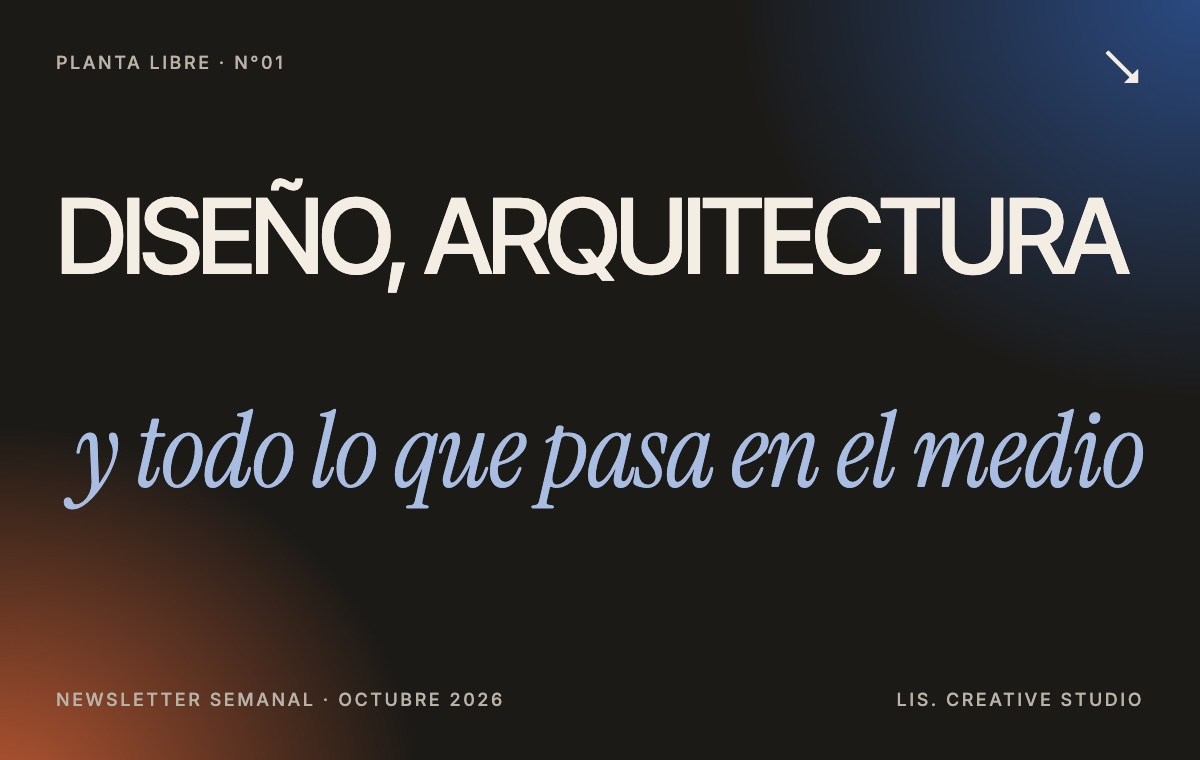
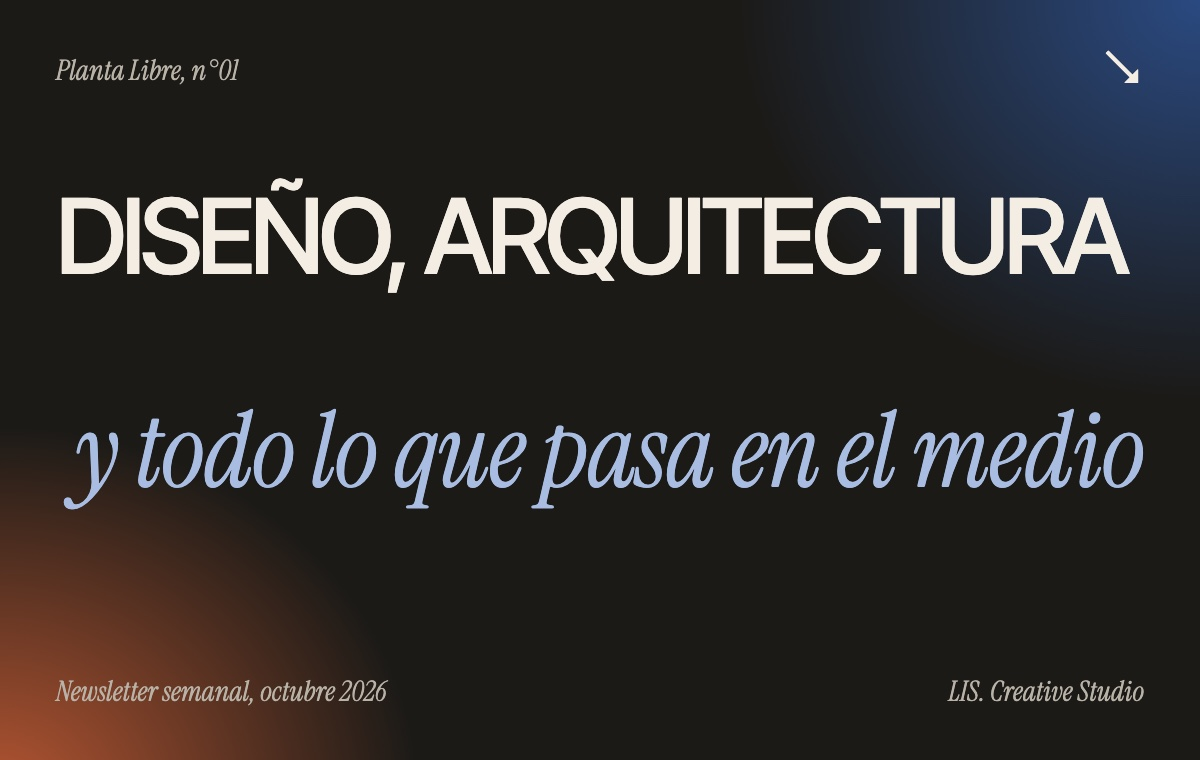
etiquetas como nota en cursiva en lugar de mayúsculas espaciadas; portadas actualizadas

Changed region(s): [[0.0308, 0.8776, 0.4317, 0.9382], [0.74, 0.8776, 0.9558, 0.9382], [0.0308, 0.0605, 0.2467, 0.1211]]

diff --git a/theme.css b/theme.css
@@ -232,3 +232,15 @@ footer { background: var(--cream) !important; border-top: 1.5px solid var(--ink)
 .footer-legal { display: flex; justify-content: space-between; gap: 16px; padding: 18px 40px; border-top: 1px solid var(--ink); font-family: 'Inter', Helvetica, Arial, sans-serif; font-size: 11px; font-weight: 500; letter-spacing: .1em; text-transform: uppercase; color: var(--gray); }
 @media (max-width: 768px) { .footer-legal { padding: 16px 24px; flex-direction: column; } }
 .footer-ml-wrap .ml-form-embedSubmit button, .nl-form-side .ml-form-embedSubmit button, .res-form .ml-form-embedSubmit button { background: var(--blue) !important; color: var(--cream) !important; border-color: var(--blue) !important; }
+
+/* Etiquetas como nota al margen (oct 2026): cursiva, minúscula, sin letras separadas */
+.section-label, .hero-label, .res-label, .includes-label, .page-hero-label,
+.svc-label, .portfolio-label, .about-tag, .test-tag, .cta-sub, .service-label,
+.res-tag, .pill-tag, .nl-tag, .modal-tag, .modality-num, .post-kicker,
+.footer-social-label, .footer-nl-label, .hero-badge, .res-badge, .lime-badge,
+.include-num, .step-duration, .step-time, .res-soon, .footer-legal {
+  font-family: 'Instrument Serif', Georgia, serif !important; font-style: italic !important; font-weight: 400 !important; text-transform: none !important; letter-spacing: 0 !important;
+  font-size: 19px !important;
+  line-height: 1.3 !important;
+}
+.footer-legal { font-size: 16px !important; }
